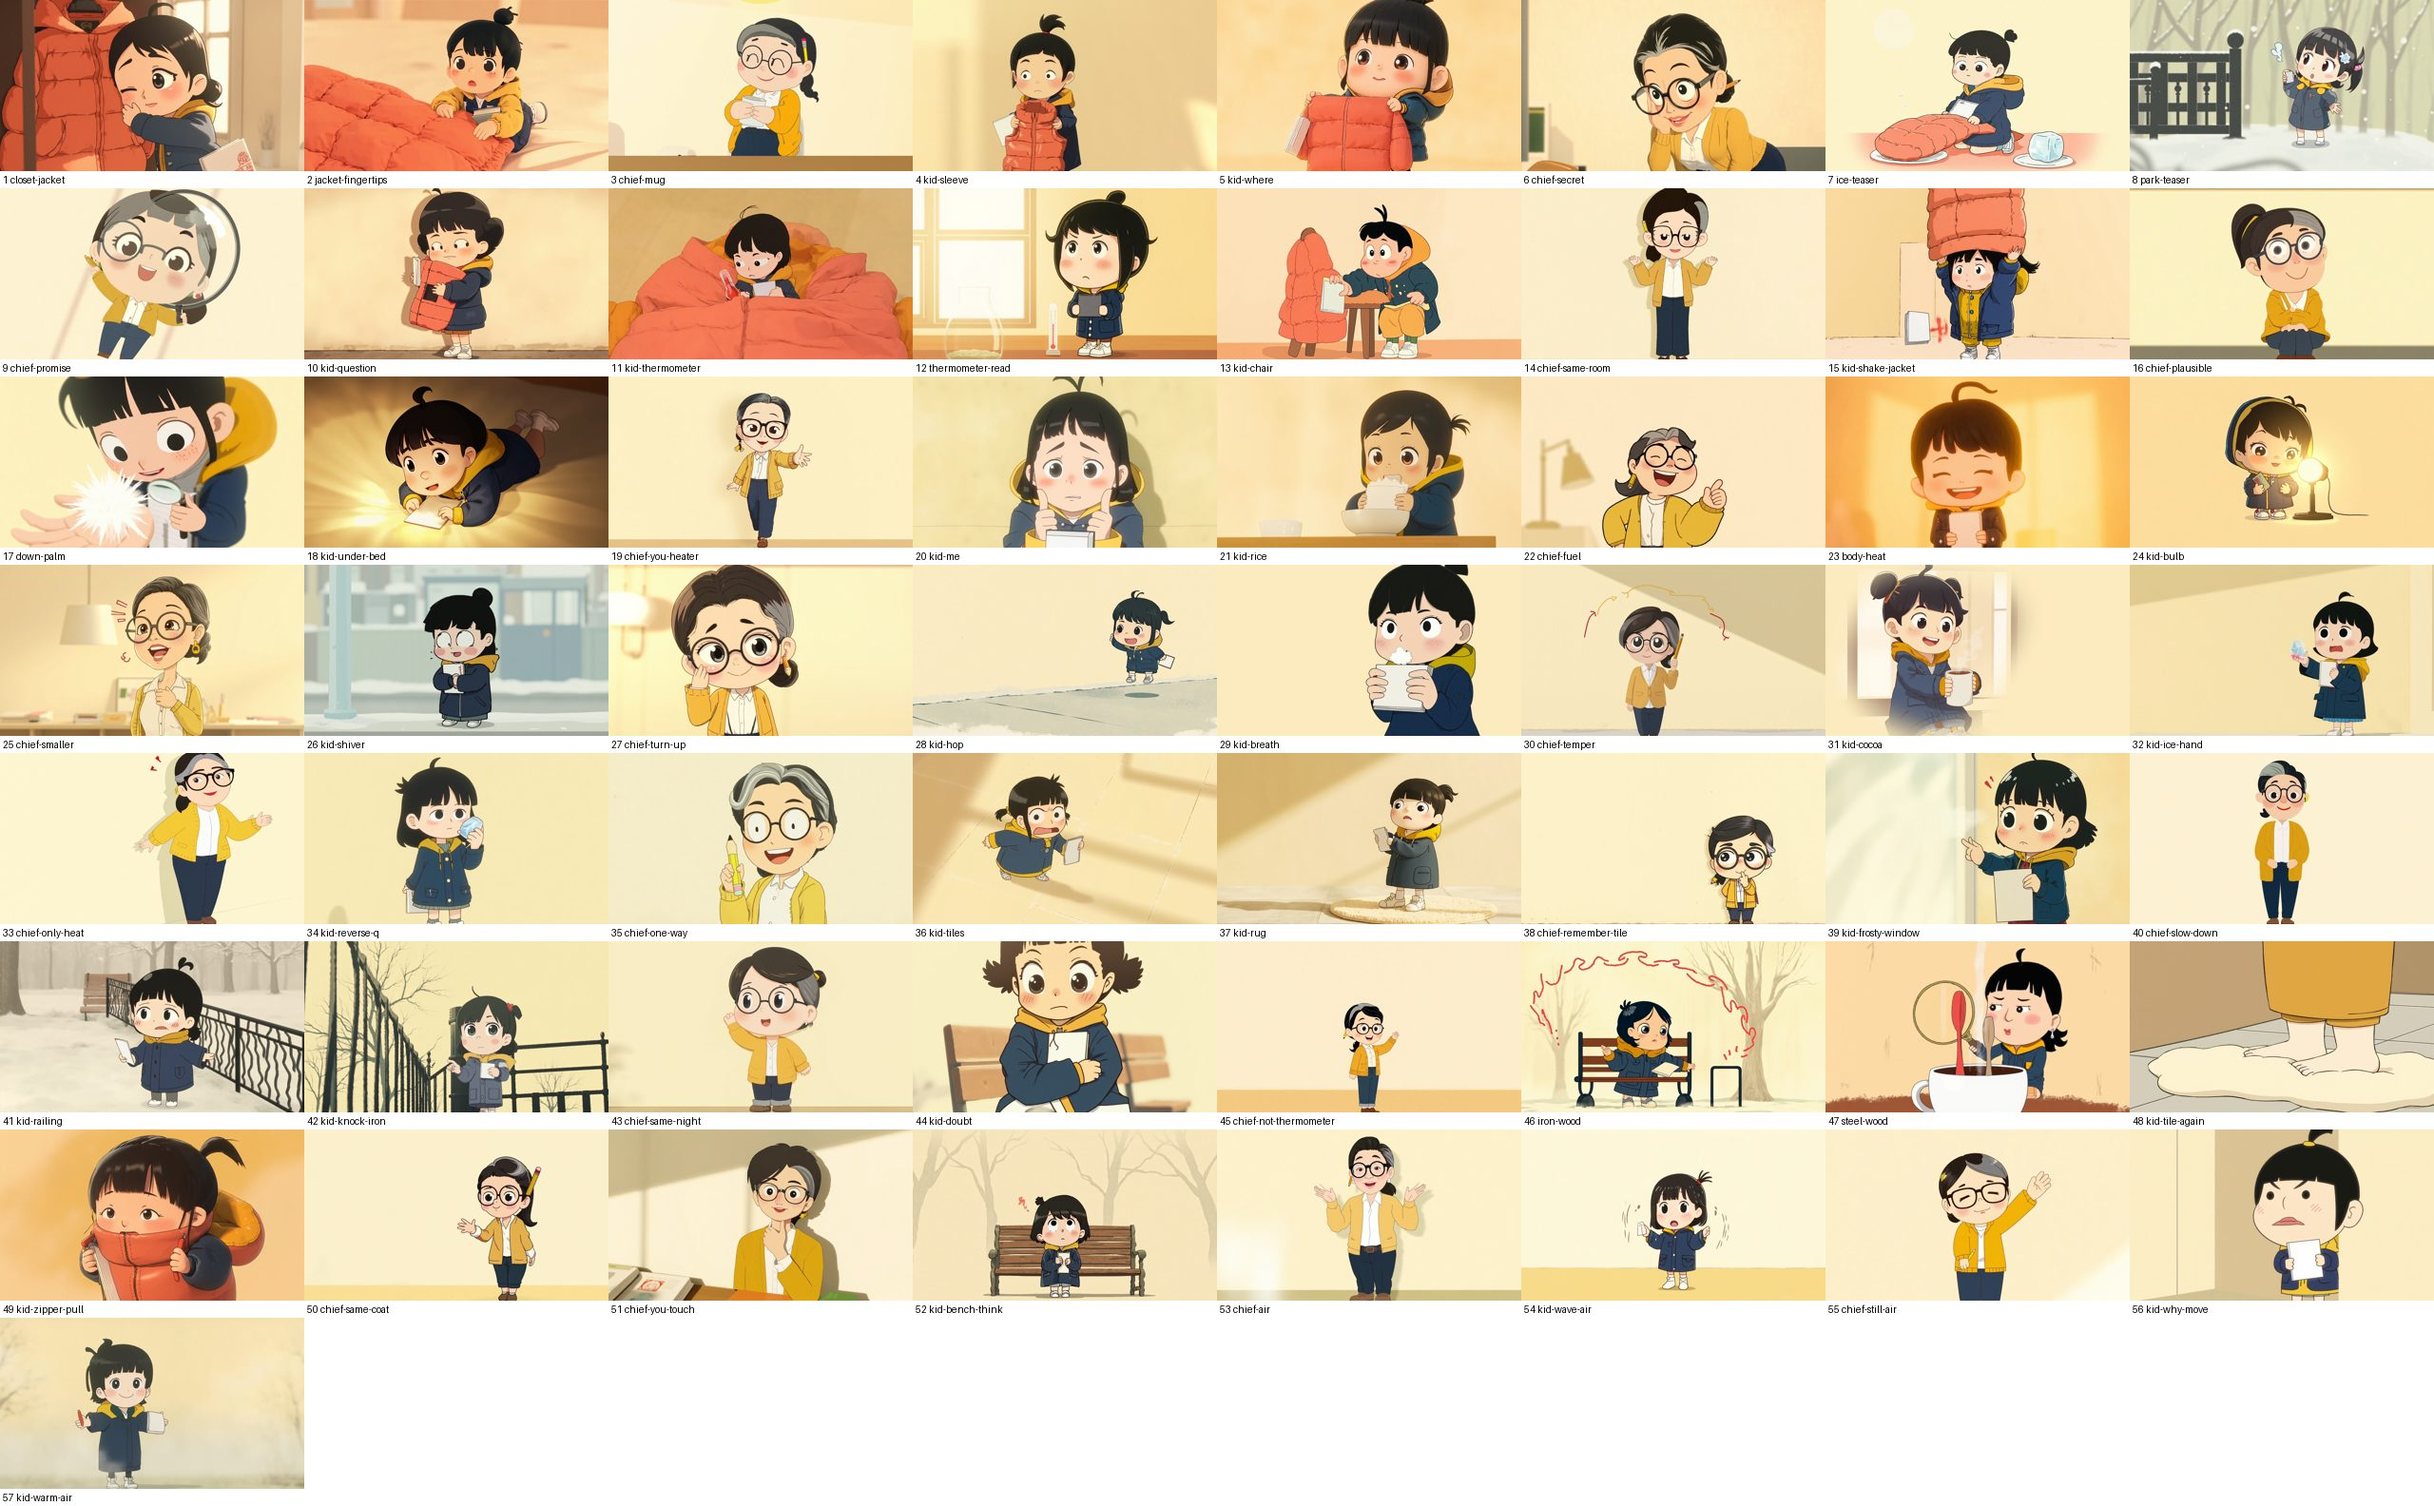
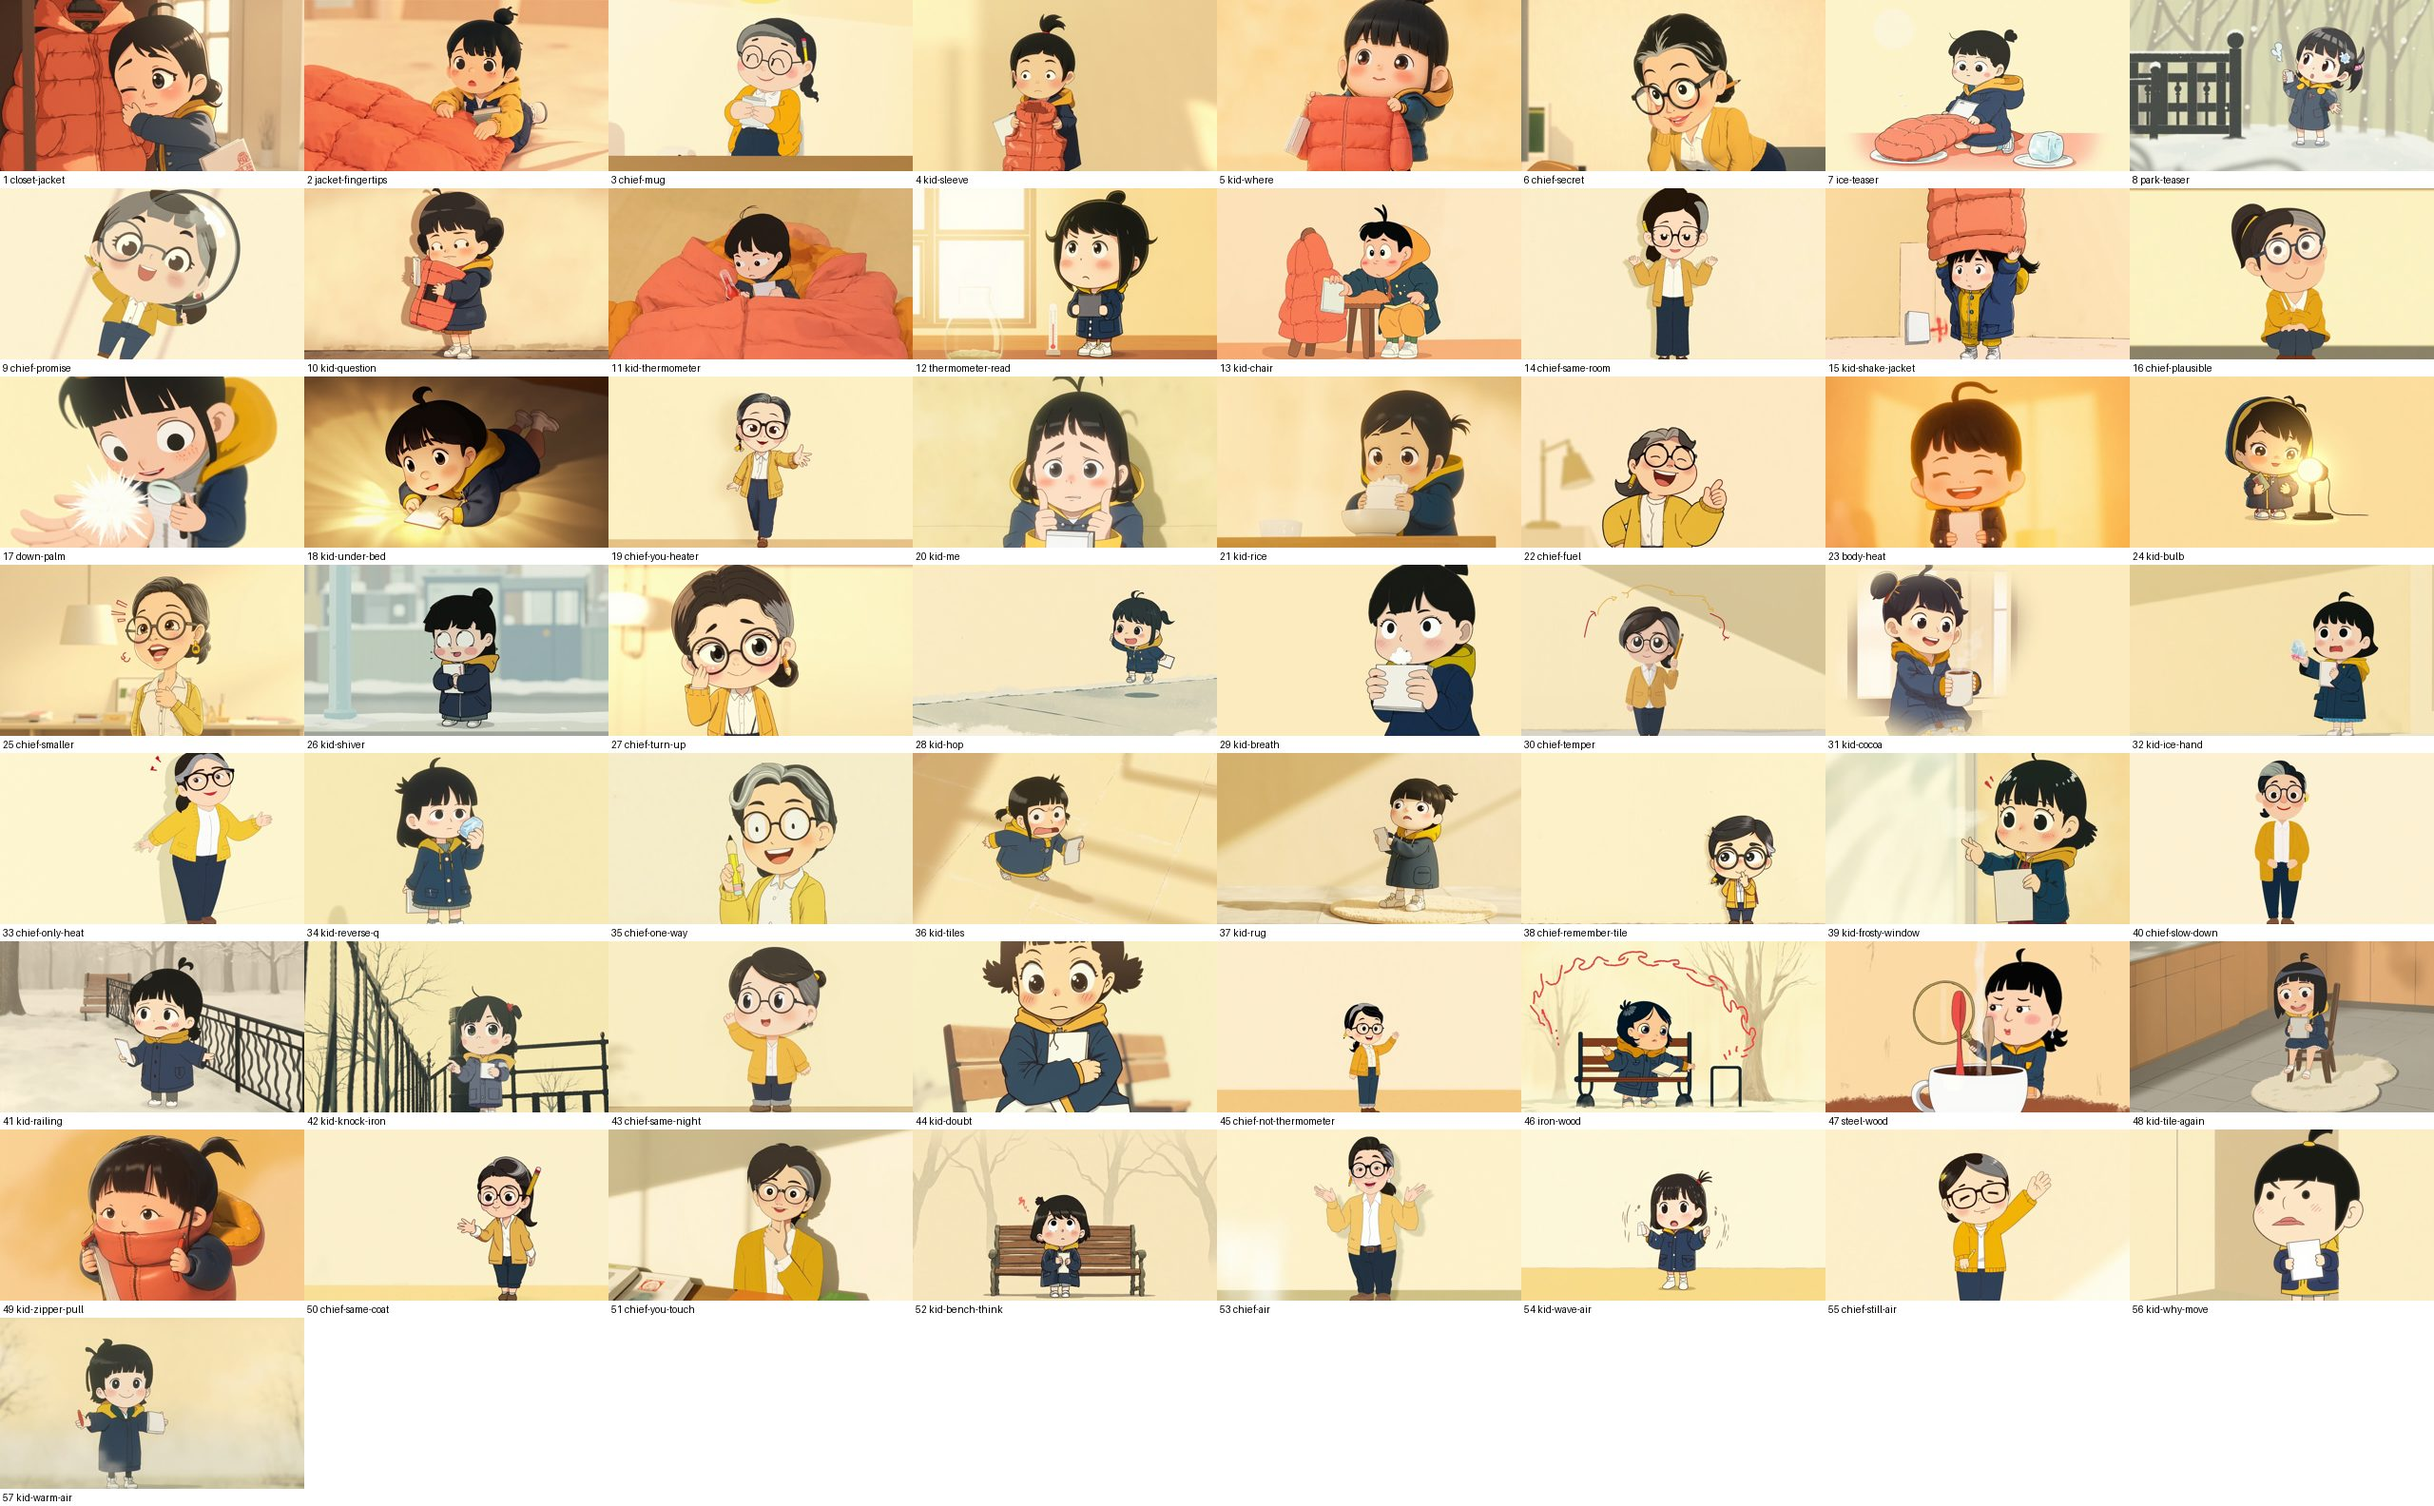
P05: redraw four off-model shots (109, 48, 101, 66) and refresh the storyboard sheets
Claude-Session: https://claude.ai/code/session_019ZmEpYzTwJafrPaLRYukag

Changed region(s): [[0.875, 0.6187, 1.0, 0.7424]]

diff --git a/docs/videos/sothatswhy-p05-down-jacket/build_scenes.py b/docs/videos/sothatswhy-p05-down-jacket/build_scenes.py
@@ -153,7 +153,7 @@ kid("iron-wood", "Medium shot of the girl in a winter park with her right hand o
      c("鐵把你手上的熱搬走得很快，木頭搬得很慢。", None, "P:iron"))
 kid("steel-wood", "Close-up of the girl peering through a large round magnifying glass at a steel spoon and a wooden spoon standing side by side in a mug of hot cocoa, the steel spoon handle glowing warm red all the way up, the wooden spoon handle still plain brown, a little steam, soft kitchen light",
      c("鋼鐵傳熱的本事，比木頭快上百倍。", "數字放慢"))
-scene("kid-tile-again", "Close-up of two small bare cartoon feet with wiggling toes standing on cold grey kitchen floor tiles, a fluffy round cream rug just beside them, flat 2D cel-shaded cartoon with clean dark outlines, soft morning light",
+kid("kid-tile-again", "Medium shot of the girl sitting on a kitchen chair with her bare feet on cold grey floor tiles, curling her toes and smiling, a fluffy round rug beside the chair, soft morning light",
     c("地毯和磁磚也是這樣：磁磚把你腳上的熱，搬得比較快。", None, "P:tile"))
 kid("kid-zipper-pull", "Close-up of the girl holding the zipper of " + JACKET + " with one hand and shivering with a funny face, soft morning light",
     k("羽絨衣的拉鍊頭，也比布冰！", "發現"))
@@ -191,7 +191,7 @@ chief("chief-locked", "Waist-up medium shot of the chief cupping her two hands t
       c("空氣被關在這些小空間裡，想飄也飄不走。", None, "P:feather"))
 kid("kid-air-vest", "Medium shot of the girl hugging a big clear plastic bag puffed up with air to her chest like a vest, a cheeky grin, a plain wall, soft daylight",
     k("那穿一件空氣不就好了？", "開玩笑", "S:airvest"))
-chief("chief-cut-small", "Waist-up medium shot of the chief drawing a small grid of squares in the air with one finger, a patient smile, " + WALL + ", soft daylight",
+chief("chief-cut-small", "Head-and-shoulders close-up of the chief holding up a small square quilted cushion beside her face, a patient smile, " + WALL + ", soft daylight",
       c("一大片空氣會自己轉圈，把熱帶走。"), c("切成很多很小的格子，它才轉不起來。", None, "P:airvest"))
 kid("kid-face-jacket", "Close-up of the girl resting her cheek on " + JACKET + " folded on her lap and smiling up at the camera, soft daylight",
     k("像好多好多小房間！", "驚喜"), k("羽絨衣是一件裝滿空氣的衣服！", "開心"))
@@ -265,7 +265,7 @@ chief("chief-no-bridge", "Waist-up medium shot of the chief holding her two hand
       c("對。羽絨衣裡的空氣動不了，熱還能慢慢碰過去；"), c("保溫瓶中間幾乎什麼都沒有，熱連碰都很難。"))
 kid("kid-better-coat", "Close-up of the girl holding a shiny steel thermos against her chest like a little coat and grinning, a plain wall, soft daylight",
     k("那保溫瓶是更厲害的羽絨衣？", "好笑"))
-chief("chief-cant-wear", "Waist-up medium shot of the chief shrugging with a playful smile, " + WALL + ", soft daylight",
+chief("chief-cant-wear", "Head-and-shoulders close-up of the chief laughing and shrugging with both palms up, " + WALL + ", soft daylight",
       c("可以這樣想，只是它穿不上身。", "玩笑"))
 kid("kid-thermos-neck", "Close-up of the girl's face squinting one eye into the round opening of a shiny steel thermos held right in front of her face, soft daylight",
     k("瓶口那裡，像我沒拉的拉鍊？", "想到"))
@@ -283,7 +283,7 @@ kid("ice-back", "Medium shot of the girl kneeling at a low table, poking " + JAC
     c("那開頭那顆包著羽絨衣的冰塊呢？"), k("羽絨衣那麼暖，會融得更快吧？", "很有把握的錯猜，章尾停住"))
 
 # ---------- 收尾 ----------
-chief("chief-not-heater", "Head-and-shoulders close-up of the chief raising her eyebrows with a gentle smile and one hand open, " + WALL + ", soft lamp light",
+chief("chief-not-heater", "Head-and-shoulders close-up of the chief gently shaking her head with a kind smile, " + WALL + ", soft lamp light",
       c("很多人都會這樣猜。可是它裡面沒有暖爐，"), c("還記得溫度計那一晚嗎？它自己一點也沒變暖。"), chapter="把冰塊包進羽絨衣")
 kid("two-cubes", "Close-up of two small white plates side by side on a low wooden table, on the left one ice cube folded inside " + JACKET + " still solid, on the right a bare ice cube already shrunk into a wide puddle, the girl peeking in from the edge of the frame with a delighted surprised face, soft daylight",
      c("很多學校課堂都會做這個比較：一顆包起來、一顆不包。"), c("包起來的那顆，融得比較慢。", None, "P:icewrap"))
